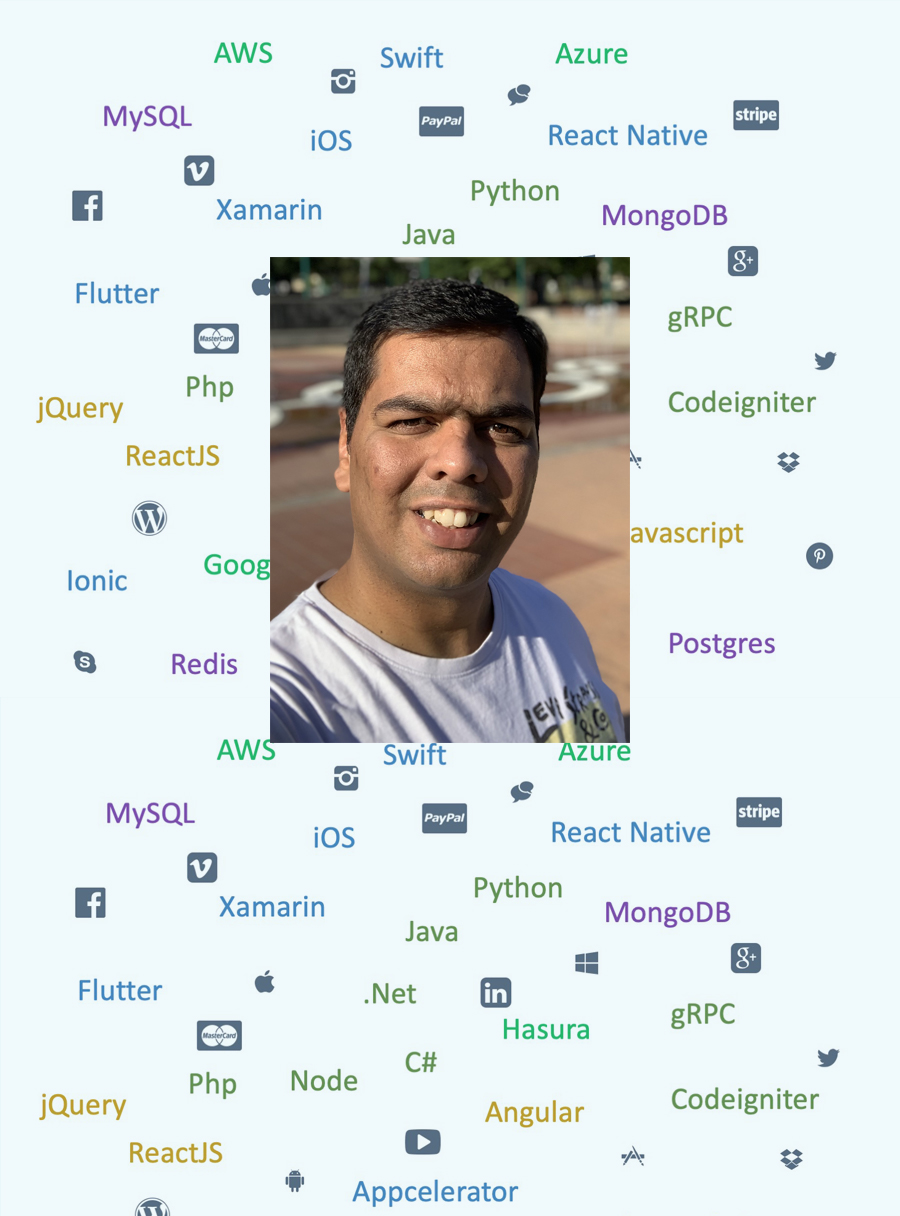
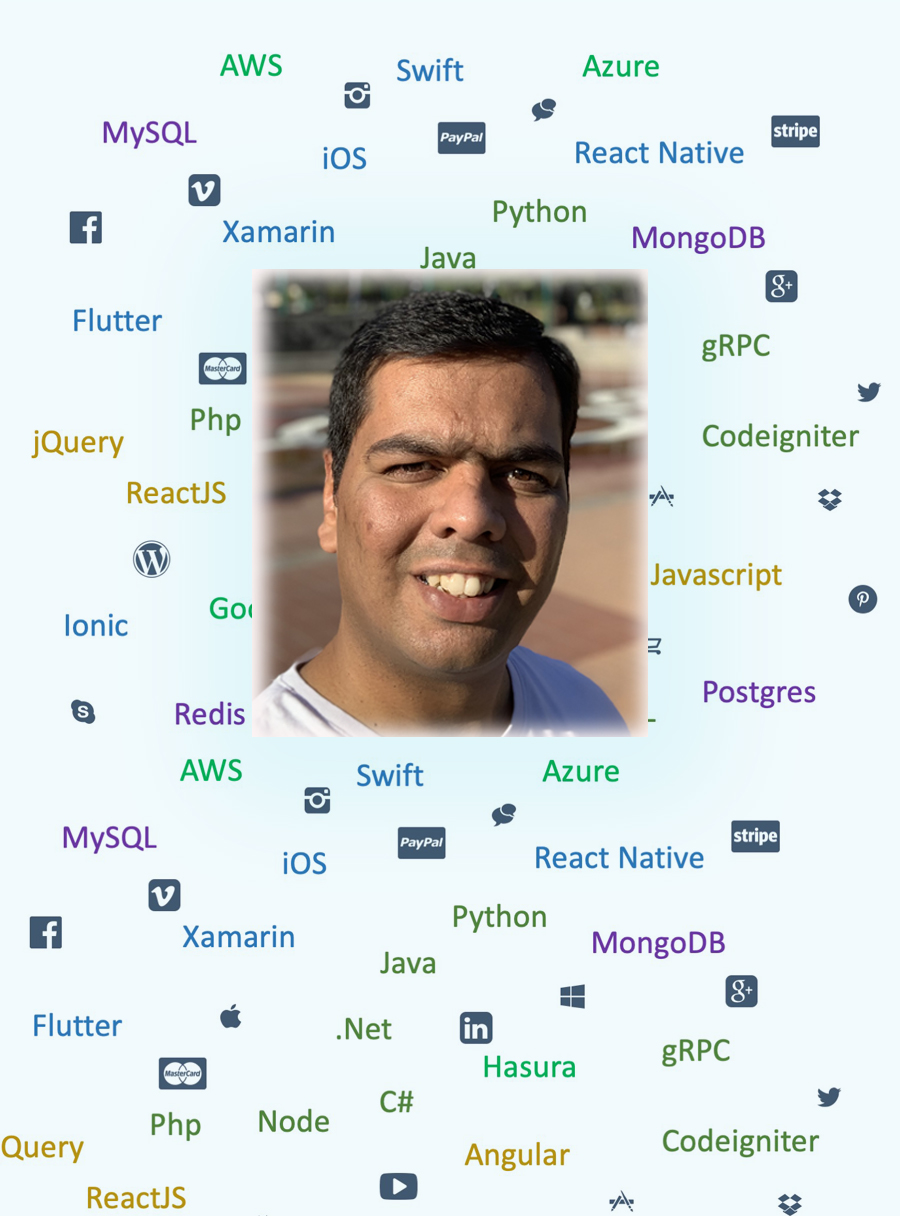
updated profile image

diff --git a/css/style.css b/css/style.css
@@ -322,12 +322,12 @@ button:focus,
     right      : 0;
     bottom     : 0;
     background : linear-gradient(
-            -30deg,
-            rgba(42, 84, 245, 0.5) 0%,
-            rgba(42, 84, 245, 0.5) 40%,
-            transparent 60%,
-            transparent 100%
-    );
+        -30deg,
+        rgba(42, 84, 245, 0.5) 0%,
+        rgba(42, 84, 245, 0.5) 10%,
+        transparent 60%,
+        transparent 100%
+);
 
     }
 
